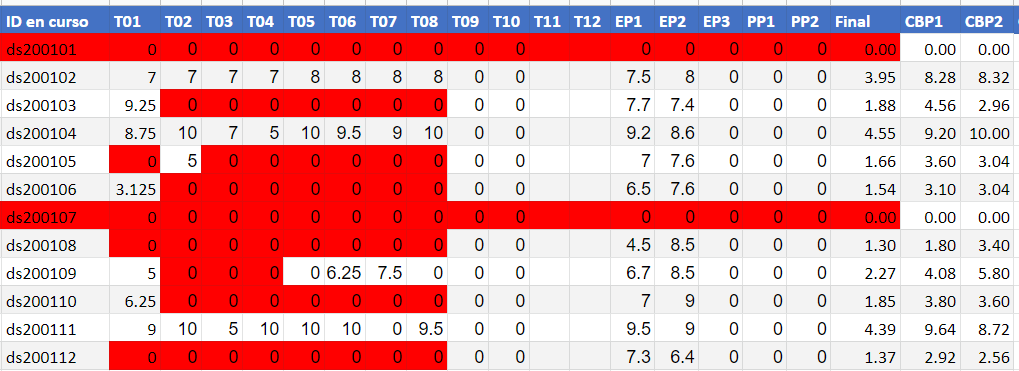
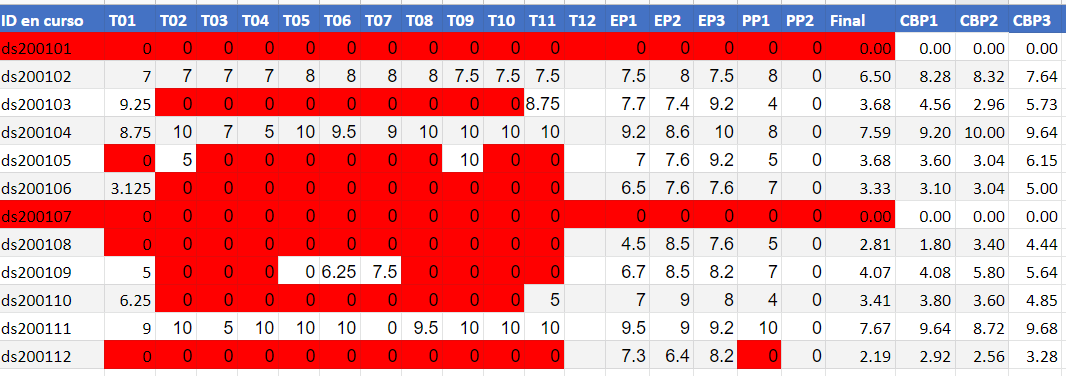
NEW: Homework 12 and update of grades

diff --git a/clase_31.md b/clase_31.md
@@ -1,1 +1,26 @@
 # Revisión de Avances de Proyecto
+
+- Irving Ramses Flores Muñoz
+
+- Diego David Rocha Valadez
+    - Listo
+
+- Manuel de Jesús Valle Parra
+    - Listo ( junto con axel)
+    
+- Emmanuel Alí Guzmán Chávez
+    - Listo
+
+- Salvador Alejandro Arceo Martínez
+    - Listo
+
+- Luis Fernando Garcia Salmerón
+
+- Alfredo Nahim Salmán Ortega
+    - Listo
+
+- Hector Alberto Vázquez Ortiz
+    - Listo
+
+- Axel Leonardo Rosado López
+    - Listo

diff --git a/tarea_12.md b/tarea_12.md
@@ -1,0 +1,6 @@
+# Tarea \#12 (Entregar antes de 02/07/2020)
+## Curso de Estructura de Datos
+
+## Problema 1. Crear rama en su repositorio de github para la entrega de su primer parte del proyecto, enviar link de su proyecto en github, la rama debera llamarse `entrega01`.
+
+## Problema 2. Crear documento donde expliquen que estan entregando, asi como instrucciones para poder realizar el build de su proyecto.
